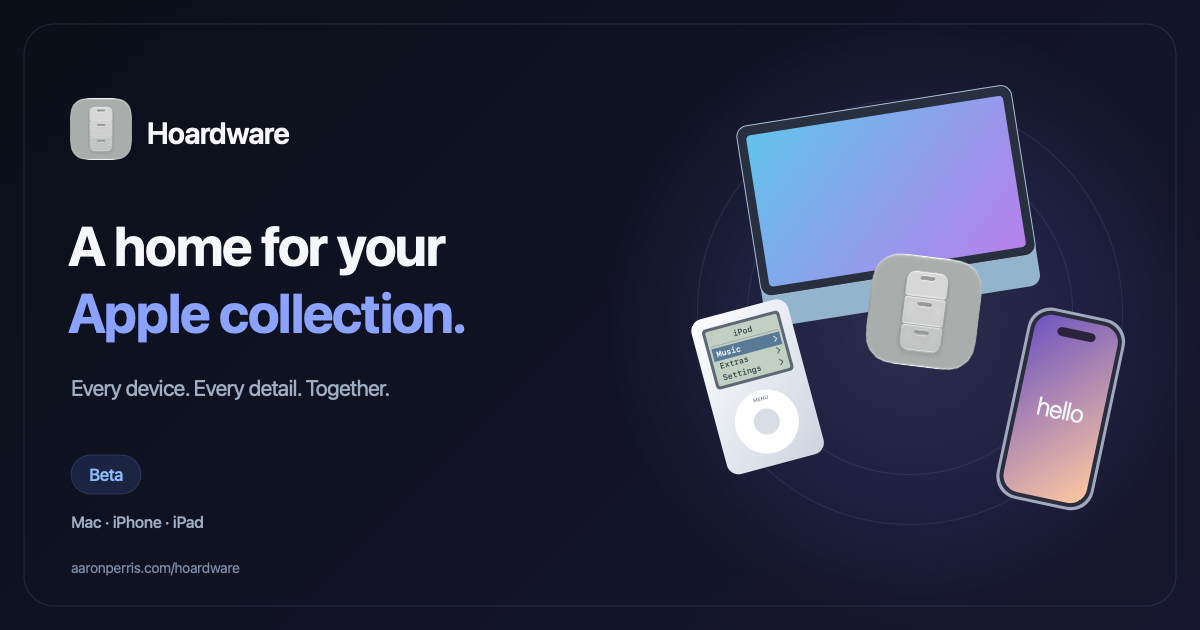
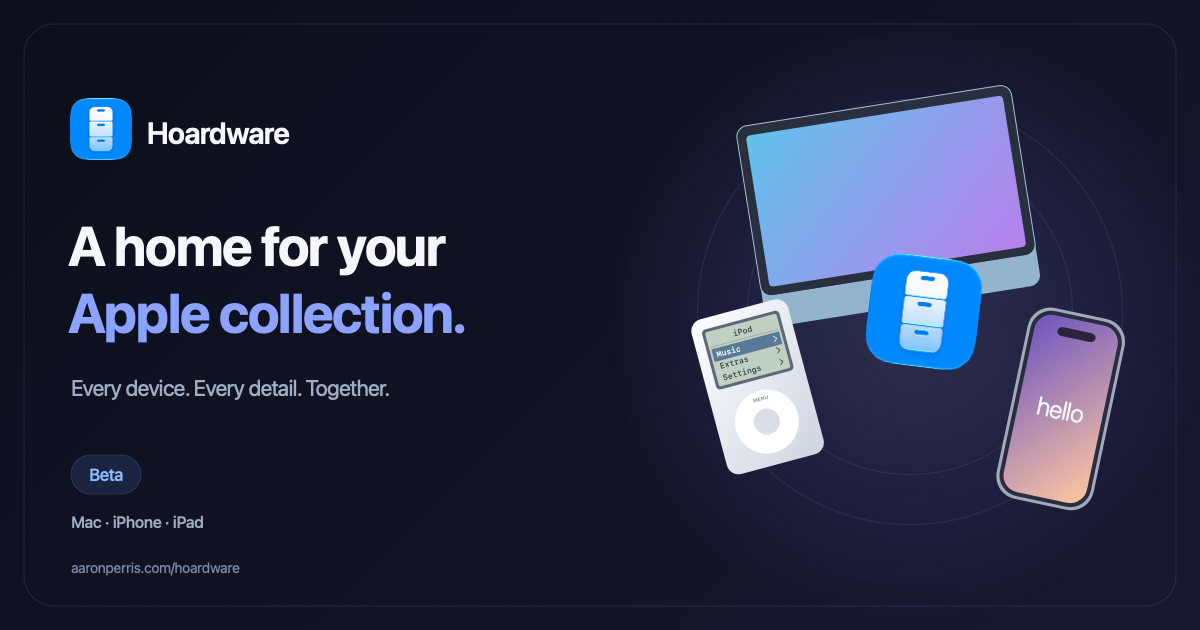
embed

Changed region(s): [[0.7092, 0.3921, 0.8325, 0.6032], [0.0308, 0.1508, 0.1233, 0.2714]]

diff --git a/hoardware/index.html b/hoardware/index.html
@@ -6,8 +6,8 @@
   <title>Hoardware - A home for your Apple collection</title>
   <meta name="description" content="Your Apple collection, beautifully organized. Track devices, firmware, and the details that matter with Hoardware for Mac, iPhone, and iPad. Join the beta.">
   <link rel="canonical" href="https://aaronperris.com/hoardware/">
-  <link rel="icon" type="image/png" href="/hoardware/icon-bezel.png">
-  <link rel="apple-touch-icon" href="/hoardware/icon-bezel.png">
+  <link rel="icon" type="image/png" href="/hoardware/icon.png">
+  <link rel="apple-touch-icon" href="/hoardware/icon.png">
   <meta name="theme-color" content="#fbfbfd" id="theme-color">
   <meta property="og:type" content="website">
   <meta property="og:site_name" content="Aaron Perris">

diff --git a/hoardware/privacy/index.html b/hoardware/privacy/index.html
@@ -6,8 +6,8 @@
   <title>Hoardware Privacy Policy</title>
   <meta name="description" content="What Hoardware stores, what it never sends, and what happens when you share a collection.">
   <link rel="canonical" href="https://aaronperris.com/hoardware/privacy/">
-  <link rel="icon" type="image/png" href="/hoardware/icon-bezel.png">
-  <link rel="apple-touch-icon" href="/hoardware/icon-bezel.png">
+  <link rel="icon" type="image/png" href="/hoardware/icon.png">
+  <link rel="apple-touch-icon" href="/hoardware/icon.png">
   <meta name="theme-color" content="#fbfbfd" id="theme-color">
   <meta property="og:type" content="website">
   <meta property="og:site_name" content="Aaron Perris">
